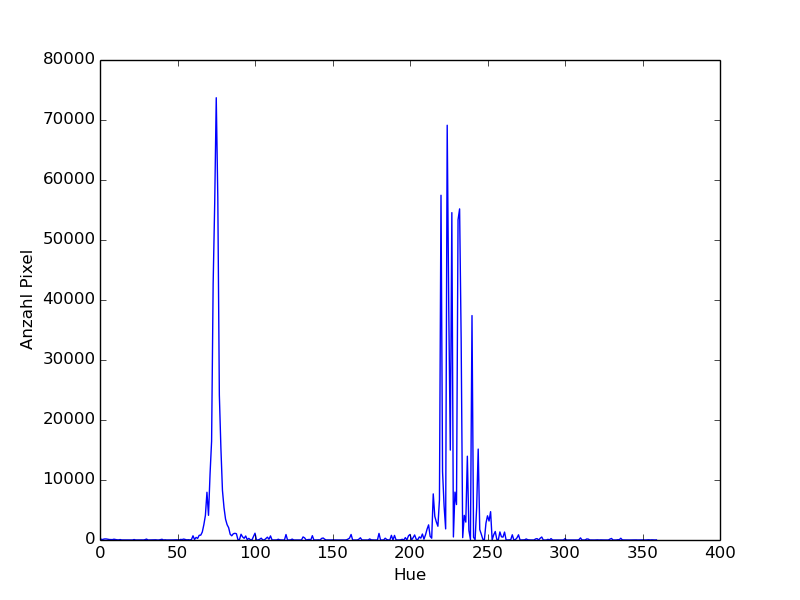
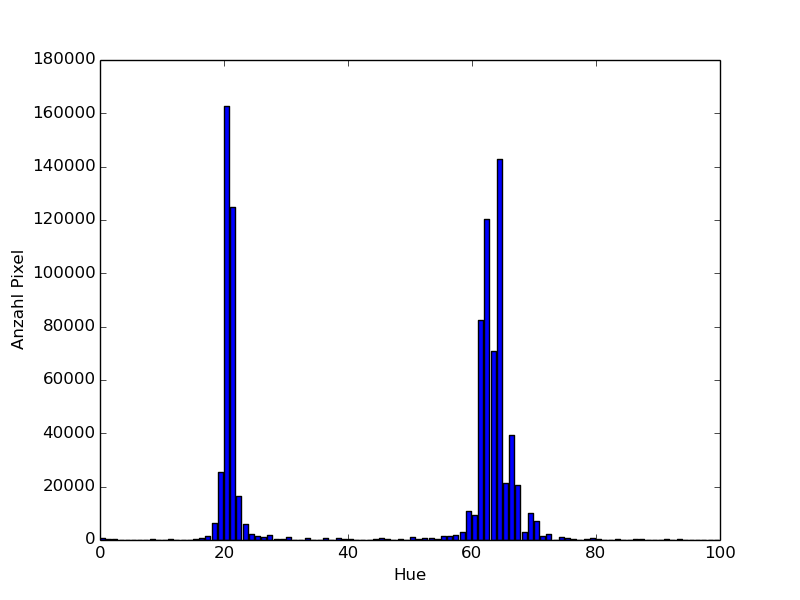
recode some stuff

diff --git a/ub3/aufg2.py b/ub3/aufg2.py
@@ -1,5 +1,6 @@
 from PIL import Image
 import numpy, cv2
+import colorsys
 
 def rgb2hsv(rgb):
     (R,G,B) = rgb
@@ -7,29 +8,7 @@ def rgb2hsv(rgb):
     R = float(R / 255.0)
     G = float(G / 255.0)
     B = float(B / 255.0)
-
-    MIN = min(R,G,B)
-    MAX = max(R,G,B)
-
-
-    if MIN == MAX:
-        H = 0
-    elif MAX == R:
-        H = 60.0 * (G - B) / (MAX - MIN)
-    elif MAX == G:
-        H = 60.0 * (2.0 + (B - R) / (MAX - MIN))
-    elif MAX == B:
-        H = 60.0 * (4.0 + (R - G) / (MAX - MIN))
-    if H < 0.0:
-        H += 360.0
-
-    if MAX == 0:
-        S = 0
-    else:
-        S = (MAX - MIN)/MAX
-    V = MAX
-    return (H,S,V)
-
+    return colorsys.rgb_to_hsv(R,G,B)
 def hsvhist(img):
     resut = []
     d = {}
@@ -39,19 +18,13 @@ def hsvhist(img):
     for x in range(img.size[0]):
         for y in range(img.size[1]):
             (H,S,V) = rgb2hsv(i[x,y])
-            H = int(H)
+            H = int(H*100)
             if H in d:
                 d[H] += 1
             else:
                 d[H] = 1
     return d
 
-def getImgMoment(img, i,j):
-	s = 0
-	for x in range(img.size[0]):
-		for y in range(img.size[1]):
-			s += x**i * y**j * img.load()[x,y]
-	return s
 
 # convert opencv video frame to pil image
 def cv2pil(frame):
@@ -71,7 +44,7 @@ def getFrame(file, n):
 
 def getImgProb(hist, img):
 	result = []
-	totalSum = 0
+	totalSum = 0.0
 	for value in hist.values():
 		totalSum += value
 
@@ -79,12 +52,12 @@ def getImgProb(hist, img):
 		line = []
 		for y in range(img.size[1]):
 			(H,S,V) = rgb2hsv(img.load()[x,y])
-			H = int(H)
+			H = int(H*100)
 			pixelProp = 0.0
 			if H in hist:
 				pixelProp = float(hist[H]) / float(totalSum)
 			else:
-				#print "fuck " + str(H)
+				##print "fuck " + str(H)
 				pass
 			line.append(pixelProp)
 		result.append(line)
@@ -102,18 +75,12 @@ def imgProb2Gray(prob):
 			img.load()[y,x] = val
 	return img
 
-'''
-1. get 2. frame from video
-2. convert frame to image
-3. read subimage
-4. get hue histogramm from subimage
-5. get probability matrix from image by historamm from subimage
-6. convert matrix to gray scale image
-'''
-
 file = "racecar.avi"
-frame = getFrame(file, 30)
+framenumber = 1
+frame = getFrame(file,framenumber )
 img = cv2pil(frame)
+
+img.save("frame" + str(framenumber) + ".png")
 
 subimg = Image.open("sub.png").convert("RGB")
 

diff --git a/ub3/aufg1.py b/ub3/aufg1.py
@@ -1,34 +1,14 @@
 import Image
 import matplotlib.pyplot as plt
+import colorsys
+import numpy as np
 
 def rgb2hsv(rgb):
     (R,G,B) = rgb
-    H = S = V = 0.0
     R = float(R / 255.0)
     G = float(G / 255.0)
     B = float(B / 255.0)
-
-    MIN = min(R,G,B)
-    MAX = max(R,G,B)
-
-
-    if MIN == MAX:
-        H = 0
-    elif MAX == R:
-        H = 60.0 * (G - B) / (MAX - MIN)
-    elif MAX == G:
-        H = 60.0 * (2.0 + (B - R) / (MAX - MIN))
-    elif MAX == B:
-        H = 60.0 * (4.0 + (R - G) / (MAX - MIN))
-    if H < 0.0:
-        H += 360.0
-
-    if MAX == 0:
-        S = 0
-    else:
-        S = (MAX - MIN)/MAX
-    V = MAX
-    return (H,S,V)
+    return colorsys.rgb_to_hsv(R,G,B)
 
 def getSubImg(img, x, y, width, height):
     subimg = Image.new(img.mode, (width,height))
@@ -41,12 +21,10 @@ def hsvhist(img):
     resut = []
     d = {}
     i = img.load()
-    #result = Image.new("RGB", img.size)
-    #o = result.load()
     for x in range(img.size[0]):
         for y in range(img.size[1]):
             (H,S,V) = rgb2hsv(i[x,y])
-            H = int(H)
+            H = int(H*100) 
             if H in d:
                 d[H] += 1
             else:
@@ -55,26 +33,23 @@ def hsvhist(img):
 
 def saveHist(hist,filename):
     line = []
-    maxKey = max(hist)
-    minKey = min(hist)
-
+    maxKey = int(max(hist))
+    minKey = int(min(hist))	
     for i in range(minKey,maxKey + 1):
         if i in hist:
             line.append(hist[i])
         else:
             line.append(0)
-
+	plt.clf()
     plt.ylabel("Anzahl Pixel")
     plt.xlabel("Hue")
-    plt.plot(range(minKey,maxKey + 1),line)
+    plt.bar(range(minKey,maxKey + 1),line)
+	#plt.plot(range(minKey,maxKey + 1),line)
     plt.savefig(filename)
-#    plt.show()
 
-
-#print rgb2hsv((72, 79, 102))
 img = Image.open("racecar.png")
 subimg = getSubImg(img, 460, 260, 660, 360)
-subimg.save("sub.png")
+#subimg.save("sub.png")
 hist = hsvhist(img)
 subhist = hsvhist(subimg)
 saveHist(hist,"hist1")

diff --git a/ub3/zettel3.md b/ub3/zettel3.md
@@ -13,3 +13,7 @@ __Teilbild:__
  ![](sub.png)
 
  ![](subhist.png)
+
+### 2. Aufgabe - CAMSHIFT
+
+ ![](probimg.png)
